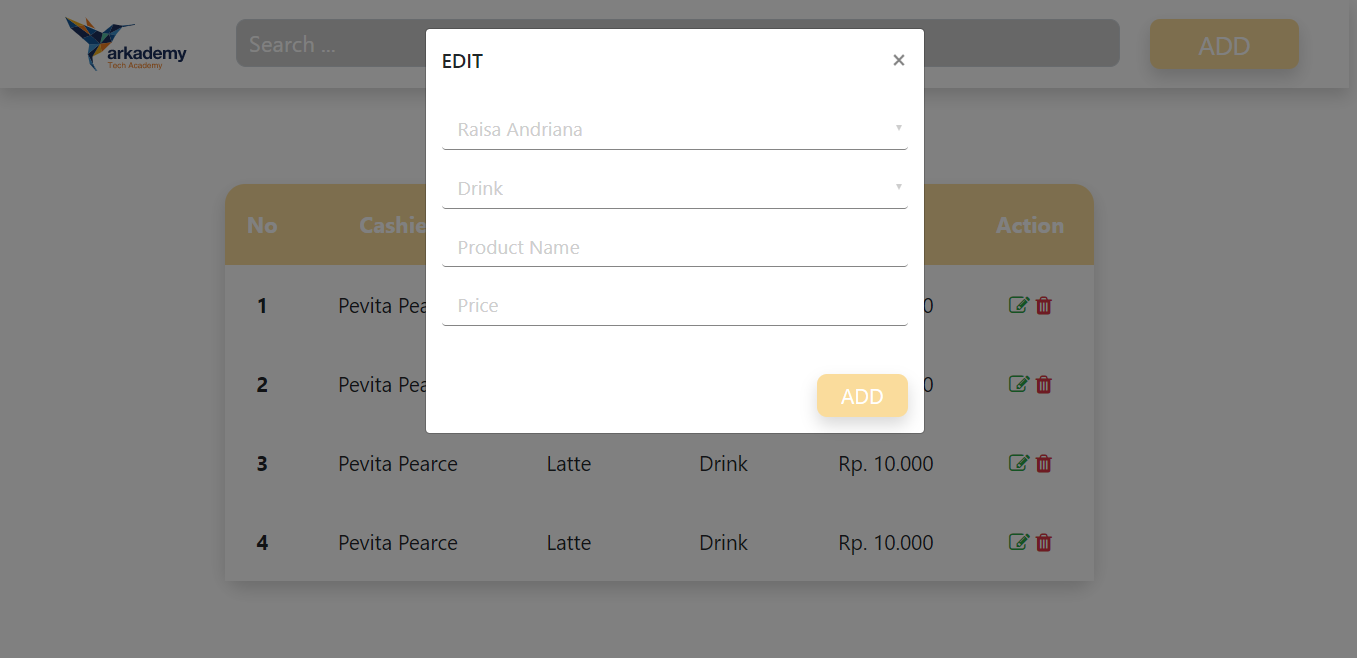
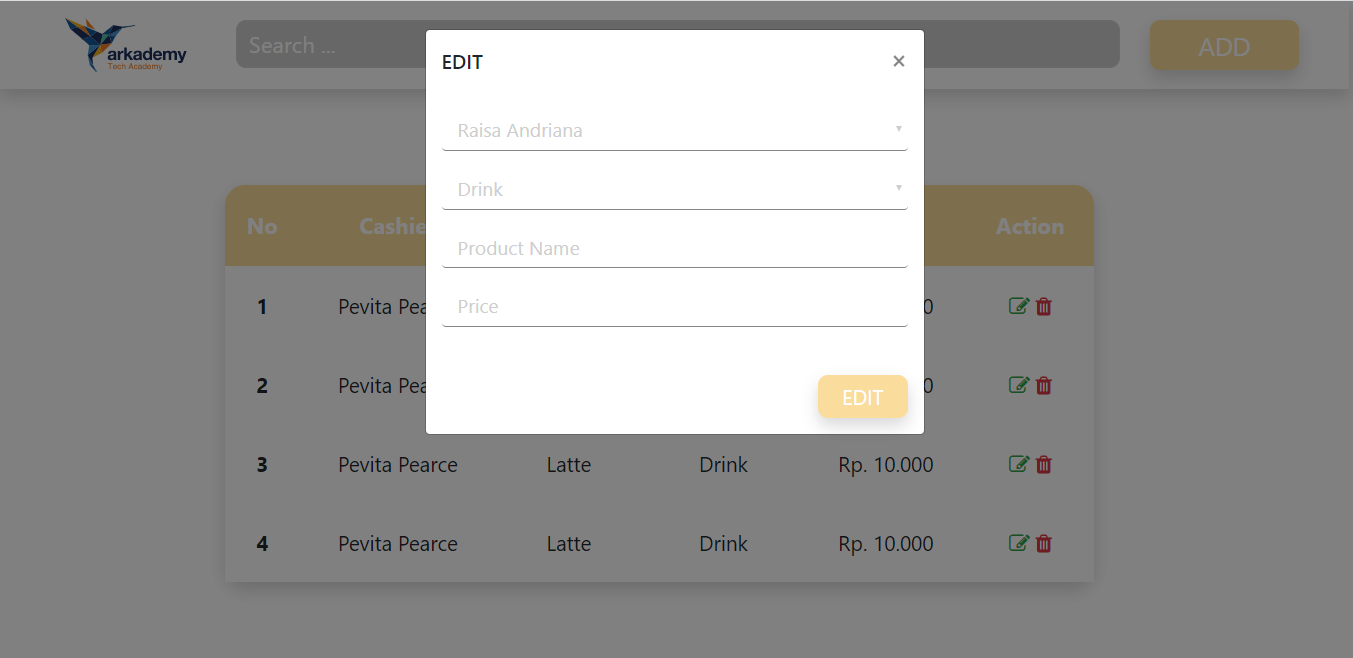
upload readme2

diff --git a/6b/index.html b/6b/index.html
@@ -190,7 +190,7 @@
                         </div>
                     </div>
                     <div class="modal-footer" style="border:none">
-                        <button id="add" type="button" style="border-radius: 10px;background:#FADC9C;border:none;font-size:1.3rem" class=" px-4 btn btn-primary shadow text-white">ADD</button>
+                        <button id="add" type="button" style="border-radius: 10px;background:#FADC9C;border:none;font-size:1.3rem" class=" px-4 btn btn-primary shadow text-white">EDIT</button>
                     </div>
                 </form>
             </div>
